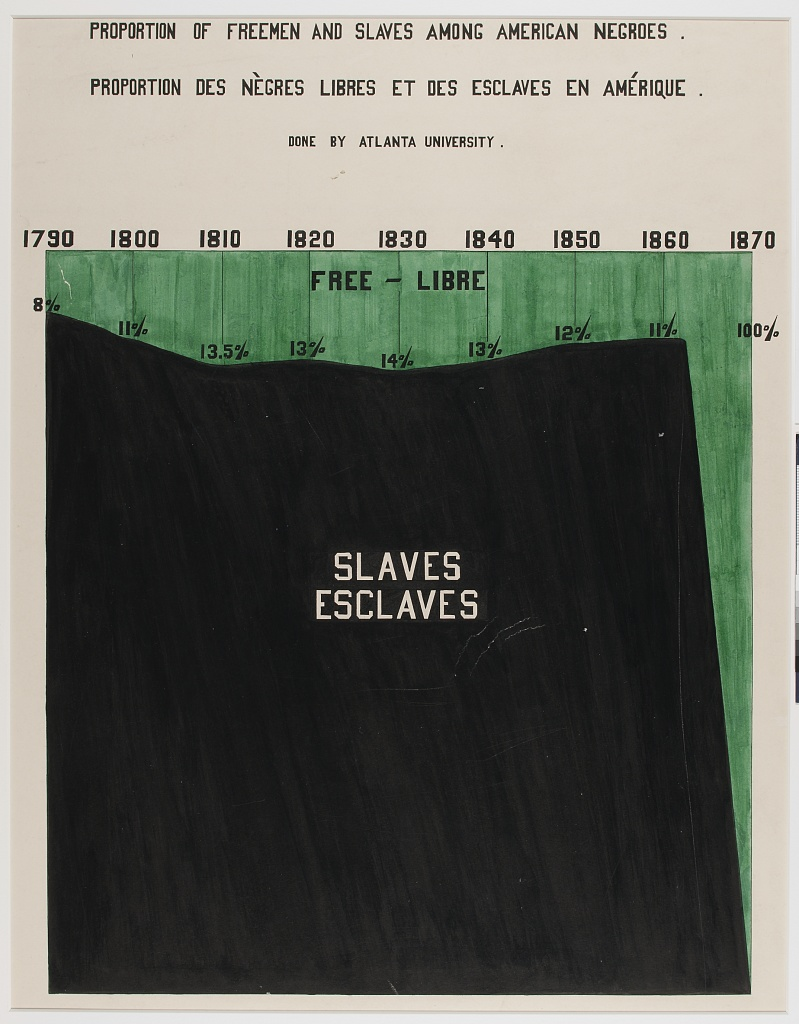
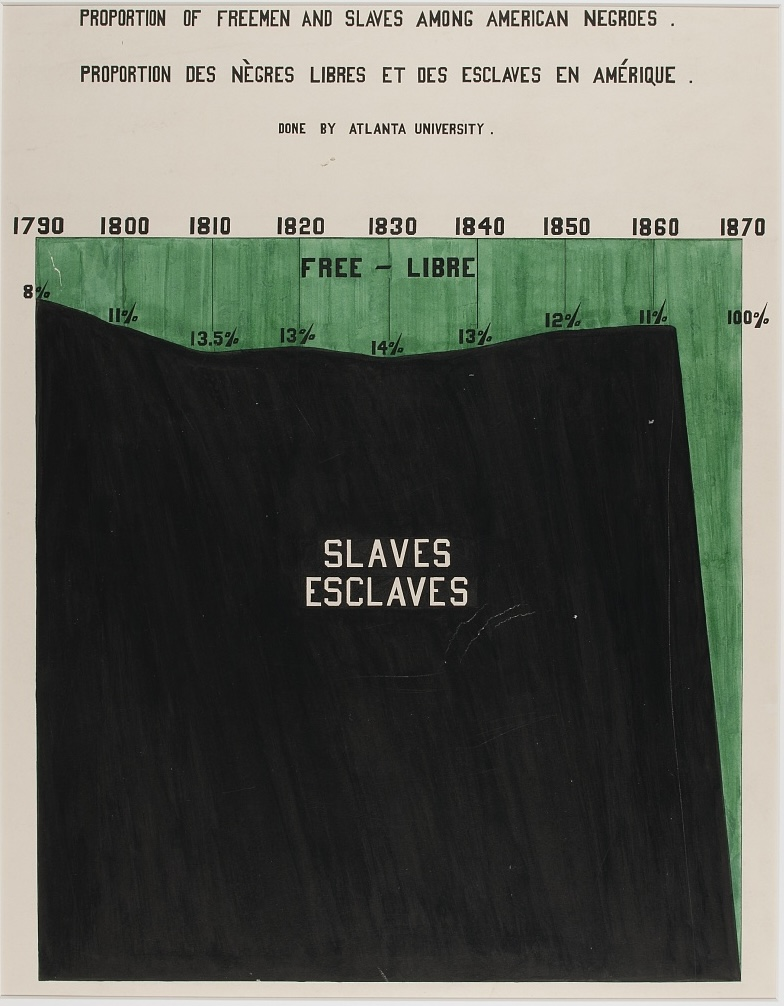
Made challenge 9 responsive

diff --git a/src/components/Challenge9/Challenge9.svelte b/src/components/Challenge9/Challenge9.svelte
@@ -2,20 +2,20 @@
 	import { scaleLinear } from 'd3-scale';
 	import data from '../../data/challenge09/data.js';
 
-	const height = 570;
-	const width = 570;
+	let width = 570;
+	let height = 570;
 	const margin = {
 		top: 25,
-		right: 22,
+		right: 20,
 		bottom: 10,
 		left: 20
 	};
 	const innerHeight = height - margin.top - margin.bottom;
-	const innerWidth = width - margin.left - margin.right;
+	$: innerWidth = width - margin.left - margin.right;
 
-	const xScale = scaleLinear().domain([1790, 1870]).range([0, innerWidth]);
+	$: xScale = scaleLinear().domain([1790, 1870]).range([0, innerWidth]);
 	const yScale = scaleLinear().domain([0, 100]).range([0, innerHeight]);
-	const freePaths = data
+	$: freePaths = data
 		.map((d, i) => {
 			if (i === data.length - 1) {
 				return null;
@@ -40,36 +40,38 @@
 	<p>Progrès des Nègres libres et des esclaves en amérique .</p>
 	<p>Done by Atlanta University .</p>
 </h2>
-<svg {width} {height}>
-	<g transform="translate({margin.left},{margin.top})">
-		<rect x={xScale(1790)} y={yScale(0)} width={xScale(1870)} height={yScale(100)} fill="black" />
-		<g class="polygons">
-			{#each freePaths as p}
-				<path d={p} />
-			{/each}
+<div class="chart-container" bind:clientWidth={width}>
+	<svg {height}>
+		<g transform="translate({margin.left},{margin.top})">
+			<rect x={xScale(1790)} y={yScale(0)} width={xScale(1870)} height={yScale(100)} fill="black" />
+			<g class="polygons">
+				{#each freePaths as p}
+					<path d={p} />
+				{/each}
+			</g>
+			<g class="xaxis" dominant-baseline="text-after-edge">
+				{#each data as d}
+					<text x={xScale(d.Year)} y={0}>{d.Year}</text>
+					{#if d.Year !== 1870}
+						<line x1={xScale(d.Year)} y1={0} x2={xScale(d.Year)} y2={yScale(d.Free)} />
+					{/if}
+				{/each}
+			</g>
+			<g class="valueLabels" dominant-baseline="text-after-edge">
+				{#each data as d}
+					<text x={xScale(d.Year)} y={d.Year !== 1870 ? yScale(d.Free) : yScale(12)} dy={-1}
+						>{d.Free}%</text
+					>
+				{/each}
+			</g>
+			<g class="typeLabels" dominant-baseline="middle">
+				<text x={xScale(1830)} y={yScale(4)}>Free - Libre</text>
+				<text x={xScale(1830)} y={yScale(43)} class="light">Slaves</text>
+				<text x={xScale(1830)} y={yScale(48)} class="light">Esclaves</text>
+			</g>
 		</g>
-		<g class="xaxis" dominant-baseline="text-after-edge">
-			{#each data as d}
-				<text x={xScale(d.Year)} y={0}>{d.Year}</text>
-				{#if d.Year !== 1870}
-					<line x1={xScale(d.Year)} y1={0} x2={xScale(d.Year)} y2={yScale(d.Free)} />
-				{/if}
-			{/each}
-		</g>
-		<g class="valueLabels" dominant-baseline="text-after-edge">
-			{#each data as d}
-				<text x={xScale(d.Year)} y={d.Year !== 1870 ? yScale(d.Free) : yScale(12)} dy={-1}
-					>{d.Free}%</text
-				>
-			{/each}
-		</g>
-		<g class="typeLabels" dominant-baseline="middle">
-			<text x={xScale(1830)} y={yScale(4)}>Free - Libre</text>
-			<text x={xScale(1830)} y={yScale(43)} class="light">Slaves</text>
-			<text x={xScale(1830)} y={yScale(48)} class="light">Esclaves</text>
-		</g>
-	</g>
-</svg>
+	</svg>
+</div>
 
 <style>
 	.headline p {
@@ -77,6 +79,7 @@
 		margin-top: 0;
 		color: #333;
 		font-size: 0.85rem;
+		padding: 0 5px;
 	}
 	.headline p:nth-of-type(2) {
 		margin-top: 25px;
@@ -88,6 +91,7 @@
 	svg {
 		margin: 40px auto 0;
 		display: block;
+		width: 100%;
 	}
 	.polygons path {
 		fill: #1e7c4d;
@@ -101,6 +105,8 @@
 	.xaxis text {
 		text-anchor: middle;
 		font-weight: bold;
+		stroke: black;
+		font-size: 0.8rem;
 	}
 	.xaxis line {
 		stroke: #333;
@@ -109,16 +115,20 @@
 	.valueLabels text {
 		text-anchor: middle;
 		font-weight: bold;
-		font-size: 0.9rem;
+		font-size: 0.8rem;
+		stroke: black;
 	}
 	.typeLabels text {
 		text-anchor: middle;
 		font-weight: bold;
 		font-size: 1.2rem;
 		text-transform: uppercase;
+		letter-spacing: 0.2rem;
+		stroke: black;
 	}
 	.typeLabels text.light {
 		fill: #e8d7c8;
+		stroke: #e8d7c8;
 		font-size: 1.4rem;
 	}
 </style>

diff --git a/src/components/Challenge10/Challenge10.svelte b/src/components/Challenge10/Challenge10.svelte
@@ -98,14 +98,14 @@ SISTES DE L'EPOQUE.
 	<span>A series of statistical charts</span><br />
 </h2>
 
-<svg {width} {height}>
+<!-- <svg {width} {height}>
 	<g transform="translate({margin.left},{margin.top})">
 		<g class="pie" transform="translate({innerWidth / 2},{innerHeight / 2})">
-			<!-- pie pieces -->
+			<-- pie pieces 
 			{#each arcs as arc}
 				<path d={arc.d} fill={arc.color} stroke={arc.color} data-label={arc.label} />
 			{/each}
-			<!-- value labels (placed close to the outer radius for small values) -->
+			<-- value labels (placed close to the outer radius for small values) 
 			{#each arcs as arc}
 				{#if arc.value > 10}
 					<text x={arc.centroidDefault[0]} y={arc.centroidDefault[1]}>{arc.value}%</text>
@@ -113,10 +113,10 @@ SISTES DE L'EPOQUE.
 					<text x={arc.centroidOuter[0]} y={arc.centroidOuter[1]} class="tiny">{arc.value}%</text>
 				{/if}
 			{/each}
-			<!-- border of whole pie -->
+			<-- border of whole pie 
 			<circle cx={0} cy={0} r={100} fill="none" stroke="#6c6c6c" />
 		</g>
-		<!-- legend left -->
+		<-- legend left 
 		<g class="legend" transform="translate(0,{40})">
 			{#each labelData as d, i}
 				<circle cx={legendXDistOuter} cy={legendYDist * i} r={legendCircleRadius} fill={d.color} />
@@ -130,7 +130,7 @@ SISTES DE L'EPOQUE.
 				>
 			{/each}
 		</g>
-		<!-- legend right -->
+		<-- legend right 
 		<g class="legend french" transform="translate(0,{40})">
 			{#each labelData as d, i}
 				<circle
@@ -149,7 +149,7 @@ SISTES DE L'EPOQUE.
 			{/each}
 		</g>
 	</g>
-</svg>
+</svg> -->
 
 <style>
 	svg {

diff --git a/src/components/Challenge8/Challenge8.svelte b/src/components/Challenge8/Challenge8.svelte
@@ -62,7 +62,8 @@
 	<p>In 1860 nearly 90% of the blacks were slaves.</p>
 	<p>En 1860 environ 90% des nègres étaient esclaves.</p>
 </div>
-<svg {width} {height}>
+
+<!-- <svg {width} {height}>
 	<g transform="translate({margin.left},{margin.top})">
 		<g class="bar1860" transform="translate(0,{margin.bar1860.top})">
 			<rect
@@ -133,7 +134,7 @@
 			</g>
 		</g>
 		<g class="lines">
-			<!-- dashed lines, order here is top to bottom-->
+			dashed lines, order here is top to bottom
 			<line
 				x1={xScale(1)}
 				y1={margin.bar1860.top + yScale1860(0)}
@@ -166,7 +167,7 @@
 			/>
 		</g>
 	</g>
-</svg>
+</svg> -->
 
 <style>
 	.headline p {
